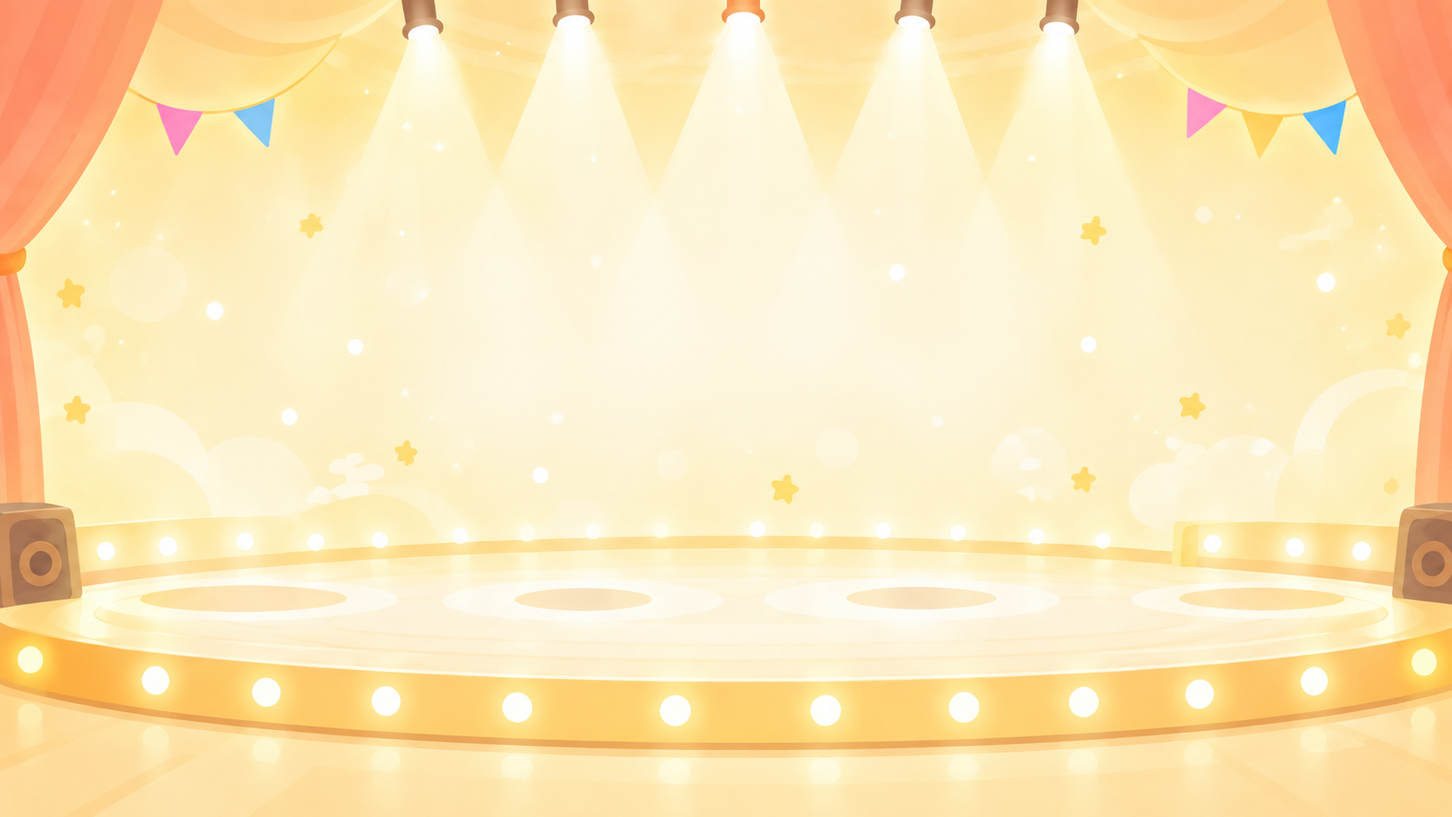
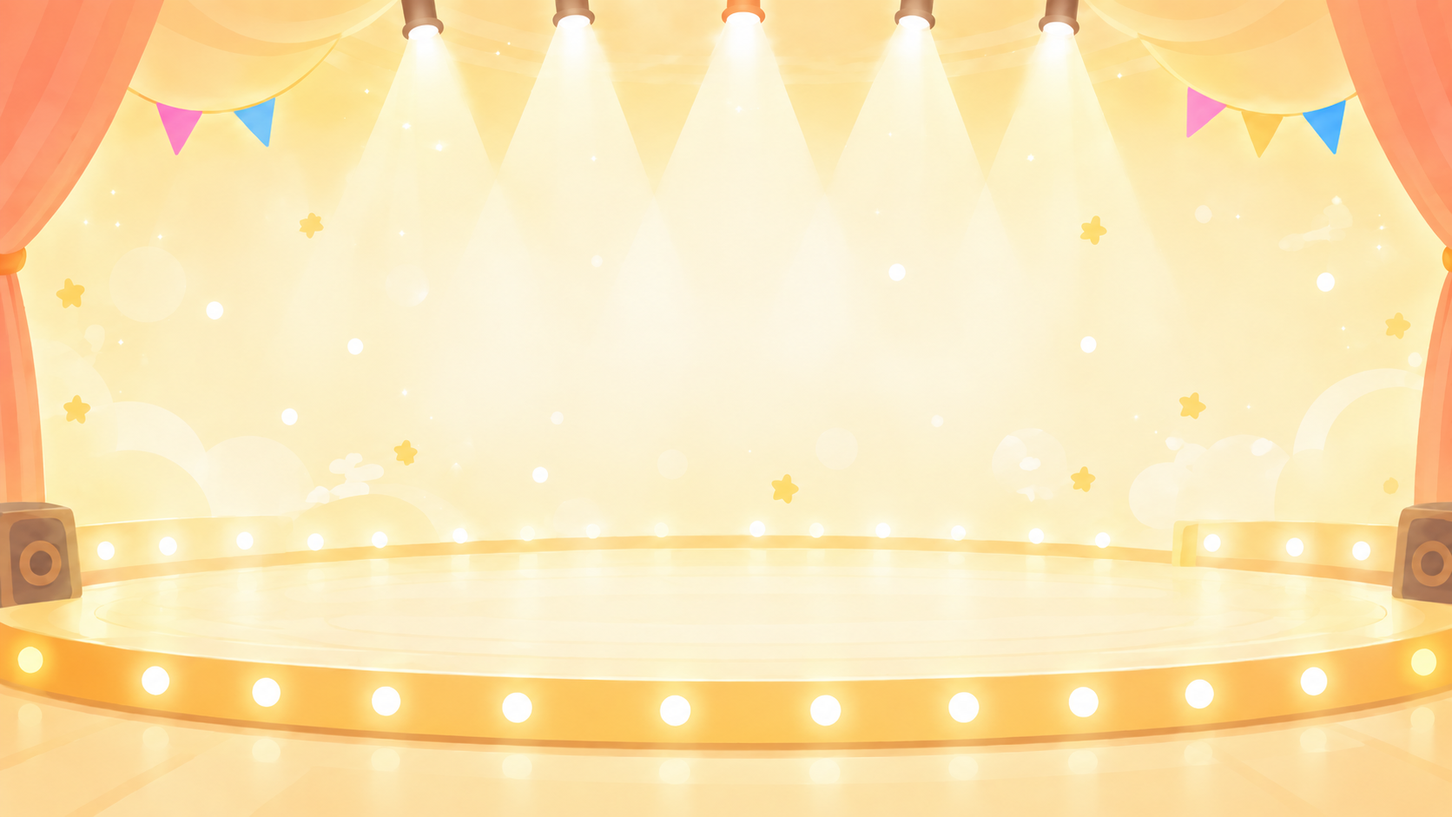
Improve portrait exhibition layouts and independent local server controls

diff --git a/exhibition/ui/App.tsx b/exhibition/ui/App.tsx
@@ -26,6 +26,7 @@ export default function ExhibitionApp() {
   const [toast, setToast] = useState(''), [reset, setReset] = useState(0), [ready, setReady] = useState(false);
   const [search, setSearch] = useState('');
   const [curtain, setCurtain] = useState<CurtainPhase>('idle');
+  const [playbackId, setPlaybackId] = useState('');
   const opening = useRef<AbortController | null>(null), personalAudio = useRef<HTMLAudioElement | null>(null);
   const [draft, setDraft] = useState<DrawingData | null>(null);
   const audio = useRef<EnsembleAudio | null>(null), handled = useRef(''), activePerformance = useRef('');
@@ -82,9 +83,9 @@ export default function ExhibitionApp() {
   useEffect(() => {
     if (view !== 'stage' || !state) return;
     const p = state.performance;
-    if (!connected || !ready || p?.status === 'stopped') { opening.current?.abort(); setCurtain('idle'); audio.current?.stop(); activePerformance.current = ''; if (!connected && ready) setReady(false); return; }
+    if (!connected || !ready || p?.status === 'stopped') { opening.current?.abort(); setCurtain('idle'); setPlaybackId(''); audio.current?.stop(); activePerformance.current = ''; if (!connected && ready) setReady(false); return; }
     if (!p || p.status !== 'preparing' || handled.current === p.id) return;
-    handled.current = p.id; activePerformance.current = p.id; setError('');
+    handled.current = p.id; activePerformance.current = p.id; setPlaybackId(''); setError('');
     const voices = sortCards(selectedWorks(state, p.members));
     opening.current?.abort(); const controller = new AbortController(); opening.current = controller;
     const tracks = voices.map((item, i) => ({ version: item.version, pan: voices.length <= 1 ? 0 : i / (voices.length - 1) * 1.3 - .65 }));
@@ -92,10 +93,14 @@ export default function ExhibitionApp() {
       await openStage(() => player().prepare(tracks), setCurtain, controller.signal);
       if (activePerformance.current !== p.id) return;
       const started = await player().play(tracks, 2, state.volume);
-      if (started && !controller.signal.aborted && activePerformance.current === p.id) await api('ack', { displayId, performanceId: p.id, status: 'playing' });
+      if (started && !controller.signal.aborted && activePerformance.current === p.id) {
+        // Start drawing from the local audio clock, without waiting for a server round trip.
+        setPlaybackId(p.id);
+        await api('ack', { displayId, performanceId: p.id, status: 'playing' });
+      }
     })().catch(e => {
       if (controller.signal.aborted) return;
-      setCurtain('idle'); audio.current?.stop(); setError(e instanceof Error ? e.message : '再生できませんでした');
+      setCurtain('idle'); setPlaybackId(''); audio.current?.stop(); setError(e instanceof Error ? e.message : '再生できませんでした');
       void api('ack', { displayId, performanceId: p.id, status: 'stopped' }).catch(() => {});
     });
   }, [state?.performance?.id, state?.performance?.status, connected, ready]);
@@ -104,7 +109,7 @@ export default function ExhibitionApp() {
     const timer = setInterval(() => {
       const a = audio.current;
       if (a?.active && a.elapsed >= a.duration + .12) {
-        a.stop();
+        a.stop(); setPlaybackId('');
         if (view === 'stage' && activePerformance.current) { const performanceId = activePerformance.current; activePerformance.current = ''; void api('ack', { displayId, performanceId, status: 'finished' }).catch(() => {}); }
       }
     }, 50);
@@ -149,14 +154,14 @@ export default function ExhibitionApp() {
     {!state ? <div className="ex-loading">つないでいます…</div> : <>
       {view === 'maker' && <main className="ex-maker-main"><div className="ex-maker-toolbar"><a className="ex-link" href="/admin">‹ みんなの作品を見る</a><span>{generating || busy && activeTaskId ? '歌を作成中' : work ? '' : '絵かき歌を作る'}</span>{(generating || activeTaskId) && <button className="ex-link" onClick={newSong}>中止して新しく描く</button>}</div>
         <>{work && !generating && !(busy && activeTaskId) ? <PersonalSong key={version?.id ?? work.id} work={work} version={version} audioRef={personalAudio} source={previewSource} onNewSong={newSong}>{result}</PersonalSong> : <div className="ex-maker-layout"><section className="ex-paper">
-          {generating || busy && activeTaskId ? task?.drawing || work || draft ? <Drawing drawing={task?.drawing ?? work?.drawing ?? draft!} complete/> : <div className="ex-placeholder">♪</div> : <PaintCanvas key={reset} initialDrawing={draft ?? (task?.status === 'failed' ? task.drawing : undefined)} onComplete={d => void generate(d)} onClear={() => { selectWork(null); setDraft(null); }} isGenerating={false} hideFocusControl onDrawingMetricsChange={m => setHasStrokes(m.strokeCount > 0)} guideState={hasStrokes ? null : 'draw'}/>}
+          {generating || busy && activeTaskId ? task?.drawing || work || draft ? <Drawing drawing={task?.drawing ?? work?.drawing ?? draft!} complete/> : <div className="ex-placeholder">♪</div> : <PaintCanvas key={reset} initialDrawing={draft ?? (task?.status === 'failed' ? task.drawing : undefined)} onComplete={d => void generate(d)} onClear={() => { selectWork(null); setDraft(null); }} isGenerating={false} hideFocusControl mobileScene="draw" onDrawingMetricsChange={m => setHasStrokes(m.strokeCount > 0)} guideState={hasStrokes ? null : 'draw'}/>}
         </section><aside className="ex-maker-side">
           {generating || busy && activeTaskId ? <section className="ex-card ex-generating"><div className="ex-orbit" aria-hidden="true">♪</div>{task && <RoleBadge role={task.role}/>}<h1>{task?.status === 'lyrics' ? '歌詞を考え中' : task?.status === 'voice' ? '歌声を作成中' : '順番待ち'}</h1><div className="ex-progress"><i/></div><button className="ex-button secondary" onClick={newSong}>中止して新しく描く</button></section> : <section className="ex-card ex-invitation"><div className="ex-music-symbols" aria-hidden="true">♪ 🎤 ♫</div><p>キャンバスに好きな絵を描いてください。</p></section>}
           {task?.status === 'failed' && <section className="ex-card ex-failed"><h2>もう一度試そう</h2><p>{task.message}</p><button className="ex-button secondary" onClick={() => void act('retry', { taskId: task.id, deviceId: device })}>もう一度作る</button><button className="ex-link" onClick={newSong}>新しい歌を作る</button></section>}
           <MiniStage cards={nextCards}/>
         </aside></div>}</></main>}
-      {view === 'stage' && <><Stage cards={cards} next={nextCards} clock={clock} playing={performing?.status === 'playing'} curtain={curtain} limit={state.participantLimit}/>{!ready && <div className="ex-enable"><button className="ex-button primary" onClick={async () => { try { await player().enable(); setReady(true); setError(''); } catch (e) { setError(String(e)); } }}>音を有効にする</button></div>}</>}
-      {view === 'control' && <main className="ex-control-main"><h1>みんなで演奏</h1><div className="ex-control-count"><strong>{nextCards.length}</strong><span> / {state.participantLimit} 人</span></div><button className={`ex-button ex-play-button ${stageActive ? 'secondary' : 'primary'}`} disabled={!connected || !stageActive && (!state.display.ready || !nextCards.length)} onClick={() => void act(stageActive ? 'stop' : 'play', {})}>{stageActive ? '■ とめる' : '▶ 合奏スタート'}</button><p>{!state.display.ready ? '大画面で音を有効にしてください' : stageActive ? '演奏中' : '2周うたうよ'}</p><MiniStage cards={nextCards}/><a className="ex-link" href="/admin">みんなの作品を見る・人数設定</a></main>}
+      {view === 'stage' && <><Stage cards={cards} next={nextCards} clock={clock} playing={stageActive && playbackId === performing?.id} curtain={curtain} limit={state.participantLimit}/>{!ready && <div className="ex-enable"><button className="ex-button primary" onClick={async () => { try { await player().enable(); setReady(true); setError(''); } catch (e) { setError(String(e)); } }}>音を有効にする</button></div>}</>}
+      {view === 'control' && <main className="ex-control-main"><h1>みんなで演奏</h1><div className="ex-control-count"><strong>{nextCards.length}</strong><span> / {state.participantLimit} 人</span></div><button className={`ex-button ex-play-button ${stageActive ? 'secondary' : 'primary'}`} disabled={!connected || !stageActive && (!state.display.ready || !nextCards.length)} onClick={() => void act(stageActive ? 'stop' : 'play', {})}>{stageActive ? '■ とめる' : '▶ 合奏スタート'}</button><p>{!state.display.ready ? '大画面で音を有効にしてください' : stageActive ? '演奏中' : ''}</p><MiniStage cards={nextCards}/><a className="ex-link" href="/admin">みんなの作品を見る・人数設定</a></main>}
       {view === 'admin' && <main className="ex-admin-main"><div className="ex-library-heading"><h1>みんなの作品 <small>{state.works.length}</small></h1><button className="ex-button primary" onClick={newSong}>＋ 新しい歌を作る</button></div>
         <section className="ex-library-settings"><label className="ex-limit">合奏の人数<select aria-label="合奏の人数" value={state.participantLimit} onChange={e => void act('settings', { participantLimit: Number(e.target.value) })}>{[1, 2, 3, 4, 5, 6].map(n => <option key={n} value={n}>{n} 人{n === 4 ? '（標準）' : ''}</option>)}</select></label><details><summary>設定</summary><div className="ex-settings"><label>音量<input aria-label="合奏の音量" type="range" min="0" max="1" step="0.05" value={state.volume} onChange={e => void act('settings', { volume: Number(e.target.value) })}/></label><label>歌声の接続先<select value={state.backend} onChange={e => void act('settings', { backend: e.target.value })}><option value="auto">クラウド優先（自動）</option><option value="vpc">未来サーバー</option><option value="cloud-run">Google Cloud Run</option><option value="local">ローカル VOICEVOX</option></select></label><button className="ex-button secondary" onClick={async () => { try { const value = await api<{ count: number }>('import', {}); await refresh(); setToast(`${value.count}作品を追加しました`); } catch (e) { setError(String(e)); } }}>デモ記録を読み込む</button></div></details><a className="ex-link" href="/control">演奏スタートボタン →</a></section>
         <label className="ex-search"><span>作品をさがす</span><input type="search" placeholder="タイトル" value={search} onChange={e => setSearch(e.target.value)}/></label>

diff --git a/exhibition/ui/style.css b/exhibition/ui/style.css
@@ -28,3 +28,64 @@
 @media(min-width:700px) and (max-width:1000px){.ex-personal-song{grid-template-columns:minmax(0,1fr) minmax(340px,1fr);gap:14px}.ex-personal-song .ex-card{padding:14px}.ex-personal-song .ex-all-lyrics button>span{font-size:17px}.ex-personal-song .ex-song-heading h1{font-size:22px}.ex-personal-song .ex-native-player{padding:12px}.ex-personal-song .ex-drawing-mode button{padding:8px 10px;font-size:12px}.ex-personal-song .ex-paper{padding:12px}.ex-personal-song .ex-maker-side{gap:14px}}
 @media(max-width:699px){.ex-personal-song{grid-template-columns:1fr;gap:18px}.ex-personal-art{position:static}.ex-personal-art>div{max-height:36vh}.ex-original-result{padding:18px}.ex-all-lyrics button>span{font-size:17px}.ex-stage .ex-speech .ex-lyric{font-size:clamp(10px,2vw,16px)}.ex-stage .ex-role-icon{width:32px;height:32px;font-size:23px;border-width:2px}.ex-stage .ex-speech{padding:7px;min-height:14vh}.ex-stage .ex-performer-heading{min-height:5vh}.ex-stage .ex-header-label{display:none}}
 @media(prefers-reduced-motion:reduce){.ex-sparkles span,.ex-invitation .ex-music-symbols{animation:none}.ex-sparkles span{opacity:.25}.ex-curtain-panel,.ex-curtain-cue{transition:none}}
+
+/* Keep the character and its floor shadow in the same square coordinate space. */
+.ex-stage .ex-role-icon{border-radius:50% 50% 12% 50%;transform:rotate(8deg)}
+.ex-stage .ex-performer-art{container-type:size}
+.ex-art-anchor{position:relative;width:min(100cqw,100cqh);height:min(100cqw,100cqh);aspect-ratio:1;flex:none}
+.ex-art-anchor .ex-dancer{position:absolute;inset:0;width:100%;height:100%}
+.ex-art-anchor .ex-drawing{position:absolute;inset:0;width:100%;height:100%;max-width:none}
+.ex-floor-shadow{position:absolute;left:50%;bottom:1%;width:var(--shadow-width);height:8%;border-radius:50%;background:radial-gradient(ellipse,#916a3760 0%,#ad803c36 50%,#b9873800 73%);transform:translateX(-50%);pointer-events:none}
+.ex-stage .ex-curtain-panel{will-change:transform}
+.curtain-idle{visibility:hidden}
+
+/* An explicit square prevents canvas intrinsic dimensions and viewport caps stretching it. */
+.ex-maker .paint-canvas-frame{aspect-ratio:1 / 1;height:auto;flex:none}
+.ex-maker .paint-canvas-frame>canvas{position:absolute;inset:0;display:block;width:100%;height:100%}
+.ex-personal-art>div{height:auto;max-height:none;aspect-ratio:1 / 1}
+.ex-personal-art canvas{display:block}
+.ex-paper>.ex-drawing{width:min(100%,50vh);height:auto;max-height:none;margin-inline:auto}
+.ex-maker-side,.ex-original-result,.ex-all-lyrics{min-width:0}
+.ex-role-chooser{display:grid;grid-template-columns:repeat(2,minmax(0,1fr));gap:8px}
+.ex-role-chooser>details{grid-column:1/-1}
+
+@media(max-width:699px){
+  .ex-header{height:58px;padding-inline:12px;gap:8px}
+  .ex-header img{width:128px}.ex-connection{font-size:9px}.ex-connection:before{margin-right:4px}
+  .ex-menu summary{padding:9px 10px;white-space:nowrap}.ex-menu nav{max-width:calc(100vw - 24px)}
+  .ex-maker-main{padding:0 12px max(18px,env(safe-area-inset-bottom))}
+  .ex-maker-toolbar{min-height:42px;padding:5px 0}.ex-maker-toolbar>span{font-size:12px}
+  .ex-maker .ex-paper{padding:10px;border-radius:22px}
+  .ex-maker .paint-canvas-frame{width:min(100%,calc(100svh - 250px));min-width:0;border-width:5px;border-radius:20px}
+  .ex-maker .paint-toolbar{display:grid;grid-template-columns:minmax(0,1.6fr) 1fr 1fr;gap:8px}
+  .ex-maker .paint-toolbar button{width:auto;min-width:0;height:46px;min-height:46px;font-size:14px;padding-inline:8px}
+  .ex-maker .paint-toolbar button:last-child{grid-column:1/-1;min-height:50px;font-size:17px}
+  .ex-maker .compact-drawing-guide{font-size:13px;padding:0}
+  .ex-personal-song{gap:12px}
+  .ex-personal-art{width:min(100%,calc(36svh + 22px));margin-inline:auto}
+  .ex-personal-art>div{height:auto;max-height:none}
+  .ex-personal-song .ex-original-result{padding:14px}
+  .ex-song-heading{padding-bottom:8px;margin-bottom:8px}.ex-song-heading h1{font-size:21px;line-height:1.35;margin-top:8px}
+  .ex-all-lyrics button{min-height:44px;padding:7px 10px}.ex-all-lyrics button>span{font-size:16px;line-height:1.45}
+  .ex-native-player{margin-top:12px;padding:10px}.ex-drawing-mode{margin-bottom:8px}
+  .ex-drawing-mode button{padding:7px 12px;font-size:12px}
+  .ex-song-actions{margin-top:12px;gap:8px}.ex-song-actions>.ex-button{min-height:48px}
+  .ex-song-actions>.ex-link{min-height:44px}.ex-song-actions .ex-role-chooser>button{min-width:0;min-height:74px;font-size:14px;padding:9px}
+  .ex-version-select select{width:100%;min-width:0}
+  .ex-maker .ex-mini-stage{padding:12px}.ex-maker .ex-footer{display:none}
+  .ex-admin-main{padding:18px 12px}.ex-library-heading{gap:10px;flex-wrap:wrap}
+  .ex-library-heading h1{font-size:24px}.ex-library-heading .ex-button{min-height:44px}
+  .ex-library-settings{position:relative;gap:8px;margin:16px 0}
+  .ex-library-settings>details{position:static;margin-left:auto}
+  .ex-library-settings .ex-settings{left:0;right:0;min-width:0;max-width:100%;padding:18px}
+  .ex-library-settings>.ex-link{width:100%;margin:0;text-align:center}
+  .ex-limit{gap:10px}.ex-limit select{padding:10px;font-size:16px}
+  .ex-search{margin:16px 0}.ex-search input{width:0;font-size:16px}
+  .ex-gallery{gap:10px}.ex-gallery-tile{padding:7px 7px 12px}.ex-gallery h2{font-size:14px;margin:9px 3px}
+  .ex-gallery .ex-badge{margin:0;font-size:11px;flex-wrap:wrap}.ex-gallery .ex-badge small{display:none}
+  .ex-control-main{padding:26px 16px;gap:16px}.ex-control-main h1{font-size:30px}
+  .ex-control-count strong{font-size:64px}.ex-play-button{min-height:100px;font-size:26px}
+  .ex-control-main .ex-mini-stage>div{display:grid;grid-template-columns:repeat(3,minmax(0,1fr));gap:10px}
+  .ex-control-main .ex-mini-stage a{width:100%;height:auto;aspect-ratio:1}
+  .ex-control-main p:empty{display:none}
+}

diff --git a/exhibition/ui/Drawing.tsx b/exhibition/ui/Drawing.tsx
@@ -2,7 +2,14 @@ import React, { useEffect, useMemo, useRef } from 'react';
 import type { DrawingData } from '../../types';
 import { LEAD_FRAMES, LINE_FRAMES, FPS, SONG_SECONDS } from '../shared';
 
-export default function Drawing({ drawing, mappings, seconds = 0, clock, complete = false }: { drawing: DrawingData; mappings?: { lineIndex: number; strokeGroupIds: string[] }[]; seconds?: number; clock?: () => number; complete?: boolean }) {
+export function drawingBounds(drawing: DrawingData) {
+  let left = Infinity, top = Infinity, right = -Infinity, bottom = -Infinity;
+  for (const stroke of drawing.strokes ?? []) for (const p of stroke.points) { left = Math.min(left, p.x); top = Math.min(top, p.y); right = Math.max(right, p.x); bottom = Math.max(bottom, p.y); }
+  if (!Number.isFinite(left)) return { left: 0, top: 0, right: 1024, bottom: 1024, width: 1024, height: 1024 };
+  return { left, top, right, bottom, width: Math.max((drawing.lineWidth ?? 8) * 4, right - left), height: Math.max((drawing.lineWidth ?? 8) * 4, bottom - top) };
+}
+
+export default function Drawing({ drawing, mappings, seconds = 0, clock, complete = false, loop = false }: { drawing: DrawingData; mappings?: { lineIndex: number; strokeGroupIds: string[] }[]; seconds?: number; clock?: () => number; complete?: boolean; loop?: boolean }) {
   const ref = useRef<HTMLCanvasElement>(null);
   const geometry = useMemo(() => {
     const lineByStroke = new Map<number, number>();
@@ -17,12 +24,9 @@ export default function Drawing({ drawing, mappings, seconds = 0, clock, complet
   }, [drawing, mappings]);
   const surfaces = useMemo(() => {
     const size = 640, width = drawing.lineWidth ?? 8;
-    let left = Infinity, top = Infinity, right = -Infinity, bottom = -Infinity;
-    for (const p of geometry.paths) for (const point of p.points) { left = Math.min(left, point.x); top = Math.min(top, point.y); right = Math.max(right, point.x); bottom = Math.max(bottom, point.y); }
-    if (!Number.isFinite(left)) { left = top = 0; right = bottom = 1024; }
-    const w = Math.max(width * 4, right - left), h = Math.max(width * 4, bottom - top);
+    const { left, right, bottom, width: w, height: h } = drawingBounds(drawing);
     const scale = (size - 72) / Math.max(w, h);
-    const x = size / 2 - (left + right) / 2 * scale, y = size / 2 - (top + bottom) / 2 * scale;
+    const x = size / 2 - (left + right) / 2 * scale, y = size - 36 - bottom * scale;
     const paths = geometry.paths.map(p => {
       const path = new Path2D();
       if (p.points.length) { path.moveTo(p.points[0].x, p.points[0].y); for (const point of p.points.slice(1)) path.lineTo(point.x, point.y); }
@@ -43,6 +47,7 @@ export default function Drawing({ drawing, mappings, seconds = 0, clock, complet
     const { size, scale, x, y } = surfaces;
     if (canvas.width !== size) canvas.width = canvas.height = size;
     const draw = (seconds: number) => {
+    if (loop) seconds = Math.max(0, seconds) % SONG_SECONDS;
     ctx.setTransform(1, 0, 0, 1, 0, 0); ctx.clearRect(0, 0, size, size);
     const finished = complete || seconds >= SONG_SECONDS;
     ctx.drawImage(finished ? surfaces.finished : surfaces.ghost, 0, 0);
@@ -75,7 +80,7 @@ export default function Drawing({ drawing, mappings, seconds = 0, clock, complet
     let frame = 0;
     const tick = () => { draw(clock ? clock() : seconds); if (clock && !complete) frame = requestAnimationFrame(tick); };
     tick(); return () => cancelAnimationFrame(frame);
-  }, [drawing, geometry, surfaces, seconds, clock, complete]);
+  }, [drawing, geometry, surfaces, seconds, clock, complete, loop]);
   if (!drawing.strokes?.length) return <img src={drawing.imageUri} alt="作品のイラスト" className="ex-drawing" />;
   return <canvas ref={ref} className="ex-drawing" aria-label="歌に合わせて描かれるイラスト" />;
 }

diff --git a/exhibition/ui/Stage.tsx b/exhibition/ui/Stage.tsx
@@ -1,6 +1,6 @@
 import React, { useEffect, useRef, useState } from 'react';
 import { FPS, LEAD_FRAMES, LINE_FRAMES, SONG_SECONDS, ROLES, type Work, type RoleId, type selectedWorks } from '../shared';
-import Drawing from './Drawing';
+import Drawing, { drawingBounds } from './Drawing';
 import type { CurtainPhase } from './curtain';
 import background from '../assets/stage-background.png';
 
@@ -55,22 +55,16 @@ export function MiniStage({ cards, label = '合奏のなかま' }: { cards: Card
 }
 
 export default function Stage({ cards, next, clock, playing, curtain, limit }: { cards: Cards; next: Cards; clock: () => number; playing: boolean; curtain: CurtainPhase; limit: number }) {
-  const [round, setRound] = useState(1);
-  useEffect(() => {
-    if (!playing) { setRound(1); return; }
-    const timer = setInterval(() => setRound(clock() >= SONG_SECONDS ? 2 : 1), 80);
-    return () => clearInterval(timer);
-  }, [playing, clock]);
   const waiting = playing && (cards.length !== next.length || cards.some(c => !next.some(n => n.version.id === c.version.id)));
   return <main className={`ex-stage-main ${playing ? 'is-playing' : ''} count-${cards.length}`} style={{ backgroundImage: `url(${background})` }}>
-    <Sparkles/><span className="ex-round">{playing ? `${round} / 2 周` : `${cards.length} / ${limit} 人`}</span>
+    <Sparkles/>{!playing && <span className="ex-round">{cards.length} / {limit} 人</span>}
     <div className="ex-ensemble" style={{ '--players': Math.max(1, cards.length) } as React.CSSProperties}>
-      {cards.map(({ work, version }, i) => <article key={version.id} className={`ex-performer ${ROLES[version.role].instrument} role-${version.role}`} style={{ '--index': i } as React.CSSProperties}>
+      {cards.map(({ work, version }, i) => { const bounds = drawingBounds(work.drawing); return <article key={version.id} className={`ex-performer ${ROLES[version.role].instrument} role-${version.role}`} style={{ '--index': i, '--shadow-width': `${Math.max(22, bounds.width / Math.max(bounds.width, bounds.height) * 86)}%` } as React.CSSProperties}>
         <div className="ex-performer-heading"><FitTitle title={work.title}/></div>
         <div className="ex-speech"><LiveLyric work={work} clock={clock} playing={playing}/></div>
-        <div className="ex-performer-art"><span className="ex-role-icon" role="img" aria-label={ROLES[version.role].label} title={`${ROLES[version.role].label} · ${ROLES[version.role].detail}`}>{ROLES[version.role].emoji}</span><div className="ex-dancer"><Drawing drawing={work.drawing} mappings={work.lyrics.lineStrokeMappings} clock={playing ? clock : undefined} complete={!playing}/></div></div>
+        <div className="ex-performer-art"><span className="ex-role-icon" role="img" aria-label={ROLES[version.role].label} title={`${ROLES[version.role].label} · ${ROLES[version.role].detail}`}>{ROLES[version.role].emoji}</span><div className="ex-art-anchor"><span className="ex-floor-shadow" aria-hidden="true"/><div className="ex-dancer"><Drawing drawing={work.drawing} mappings={work.lyrics.lineStrokeMappings} clock={playing ? clock : undefined} complete={!playing} loop/></div></div></div>
         <div className="ex-notes" aria-hidden="true">{['♪', '♫', '♪', '♬', '♪'].map((note, n) => <span key={n} style={{ '--note': n } as React.CSSProperties}>{note}</span>)}</div>
-      </article>)}
+      </article>; })}
       {!cards.length && <div className="ex-empty-stage"><span aria-hidden="true">♪ 🎤 ♫</span></div>}
     </div>
     {waiting && <div className="ex-stage-bottom"><MiniStage cards={next} label="つぎの合奏"/></div>}

diff --git a/exhibition/README.md b/exhibition/README.md
@@ -4,7 +4,11 @@
 
 ## このPCで起動する
 
-リポジトリ直下の `run-exhibition.cmd` をダブルクリックします。初回と更新後はビルドしてからサーバーが起動します。Node.js 22以上と `npm ci` 済みの環境が必要です。
+リポジトリ直下の `manage-local.cmd`、または従来のサーバー管理セットの管理バッチを開きます。`N` で通常版（3000）、`E` で合奏展示版（3001）を選び、起動・停止・再起動を操作します。両方の同時起動も可能です。管理画面を閉じてもサーバーは動作を続けます。Node.js 22以上と `npm ci` 済みの環境が必要です。
+
+`run-exhibition.cmd` は同じ管理処理で合奏版だけを起動するショートカットです。合奏版は起動時にビルドし、起動済みの場合は重複起動しません。更新後は「再起動」を選びます。通常版は従来の Vite 開発サーバーと設定をそのまま使います。公開サイトへデプロイする操作はありません。
+
+共通処理は `scripts/manage-local-servers.ps1`。ログは `.exhibition-build/manager/normal*.log` と `ensemble*.log` に分かれます。このPCの従来の `cho_ekakiuta_manager.ps1` も共通処理を呼び出します（従来の管理セットはGit対象外のローカルファイルです）。
 
 PowerShellから起動する場合:
 
@@ -12,6 +16,8 @@ PowerShellから起動する場合:
 npm.cmd run build:exhibition
 npm.cmd run start:exhibition
 ```
+
+管理コマンドを直接使う場合は、`powershell.exe -NoProfile -ExecutionPolicy Bypass -File scripts/manage-local-servers.ps1 -App Ensemble -Action Start`。`App` は `Normal` / `Ensemble`、`Action` は `Start` / `Stop` / `Restart` / `Status` / `Build`、`-NoBrowser` でブラウザーを開かずに操作できます。
 
 | 画面 | サーバーPCでのURL | 用途 |
 | --- | --- | --- |
@@ -24,7 +30,7 @@ npm.cmd run start:exhibition
 
 大画面で一度「音を有効にする」を押すと、別端末の演奏ボタンが使えます。大画面は1台だけ有効になります。「全画面」またはブラウザーの全画面表示を使えます。個人端末の試聴にはヘッドホンを使ってください。
 
-管理用パスワードはありません。保存作品のタイルを選ぶと、生成直後と同じ詳細画面で試聴・歌い方変更・合奏への参加／退出ができます。停止はサーバーのコンソールで Ctrl+C。同じ保存先のサーバーは重複起動できません。
+管理用パスワードはありません。保存作品のタイルを選ぶと、生成直後と同じ詳細画面で試聴・歌い方変更・合奏への参加／退出ができます。停止は管理画面で対象を選んで「停止」（手動でコンソール起動した場合は Ctrl+C）。同じ保存先のサーバーは重複起動できません。
 
 ## デモの動作
 
@@ -33,7 +39,7 @@ npm.cmd run start:exhibition
 - 手動では満員のパートも選べます。再生成は絵・表示歌詞を維持し、歌声の音程・リズムを担当に合わせます。以前の歌声も保存します。
 - 「参加」を押した作品が同じ担当の旧作品と交代します。合奏から外れても保存作品は残ります。歌声の音程は参加時には変わりません。
 - 演奏開始時のメンバーを固定し、4行×2周（約30.8秒）で停止します。演奏中の追加・交代は次回から反映し、下部の待機列に表示します。
-- 1周目は薄い全体像をオレンジでなぞり、濃い線で完成します。2周目は完成した絵を残します。両方の周で現在の歌詞を表示し、進行位置を色付けします。
+- 2周とも薄い全体像から筆順にオレンジでなぞり、次の行へ進むと前の行を濃い線にします。現在の歌詞を表示し、進行位置を色付けします。周回数や2周の案内は表示しません。
 - 歌声と打楽器だけを大画面の単一Web Audio時計で再生します。歌声の左右位置は一列に並ぶイラストの位置に合わせます。リズム担当がいなくても合奏では打楽器を鳴らします。その他の楽器サンプルは再生・読み込みしません。
 - 低いメロディーは通常のメロディーの1オクターブ下です。旧版の高い歌声は互換扱いせず、同じ作品から新しい歌声を生成します。元のWAVは保存されます。
 - 人数を減らすと標準編成に合う役割を優先して残します。外れた作品は保存一覧から再参加できます。同じ役割を交代し、別役割で上限を超えた場合は参加が古い作品から外れます。演奏中の変更は次回に反映します。
@@ -119,3 +125,6 @@ npm.cmd run deploy:exhibition-voice
 - パート名は「リズム・ベース・かさね音・メロディー」。追加の3度は「いろどり音」、オクターブ下は「低いメロディー」です。保存した役割IDや音程は変えていません。
 - 歌詞は濃い文字からオレンジへ文字順に色付け。筆順は現在の行をオレンジで残し、次の行に移ると黒になります。
 - 個人画面は既存の KaraokeLyricsPanel と DrawingPlaybackCanvas を再利用。右側に4行歌詞、標準音声プレーヤー、アニメーション／完成絵切替、その下に新しい歌を作るボタンを配置します。歌詞クリックによる途中再生、停止・シークにも対応します。リズムの試聴には打楽器を同じWAVに混ぜ、シーク時もずれないようにしています。
+- 背景は床に影がない提供画像へ差し替え。イラストの幅に応じた楕円の影を床に表示します。パートの吹き出しは右下を向きます。
+- 縦画面では正方形の描画・再生キャンバスと、スクロールで使える4行歌詞・パート変更・参加操作を配置。作品一覧の設定と演奏ボタンも320px幅から利用できます。
+- 大画面の描画開始はローカルの音声時計に同期し、サーバーからの状態更新を待ちません。検証用サーバーで状態通知を1.8秒遅らせ、開幕直後から描画が進み、2周目も描き直して自動停止することを確認しています。
